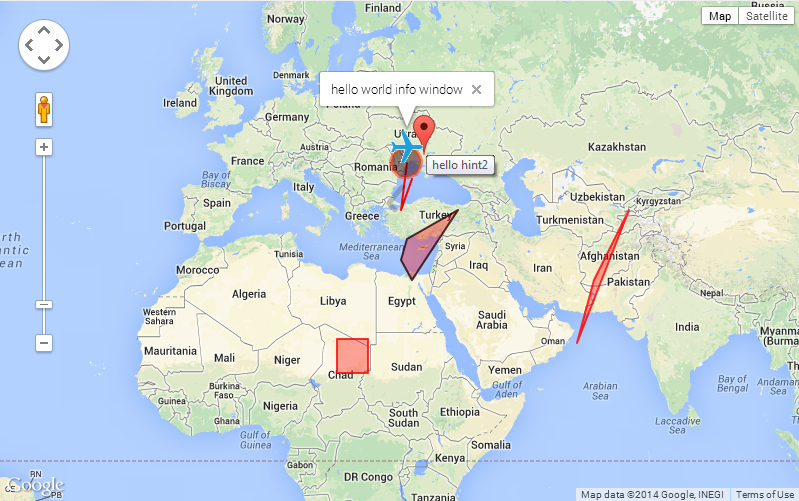
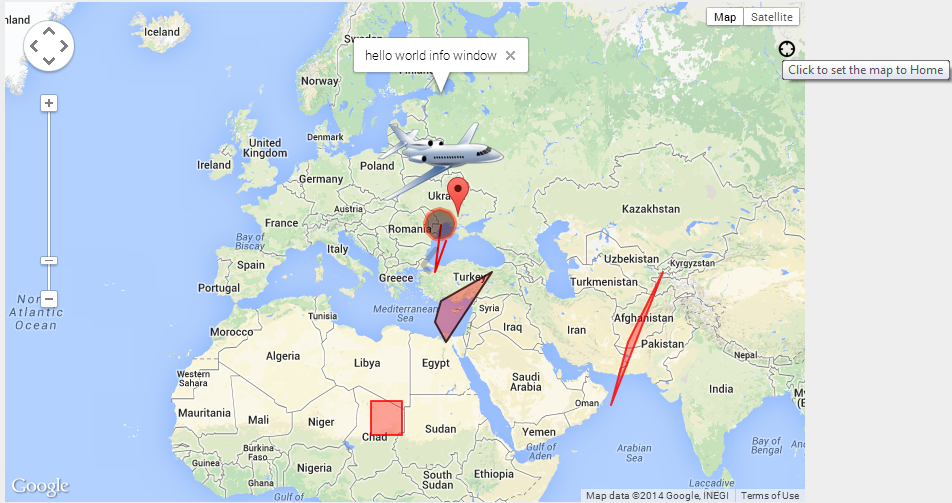
Added ability to set a map center by user geolocation data

diff --git a/flask_googlemaps/templates/googlemaps/gmapjs.html b/flask_googlemaps/templates/googlemaps/gmapjs.html
@@ -129,6 +129,30 @@
           });
           drawingManager.setMap(googleMap);
         }
+
+        if (navigator.geolocation) {
+            var container = document.createElement('div');
+            var homeControl = new BuildHomeControl(container);
+
+            container.index = 1;
+            googleMap.controls[google.maps.ControlPosition.RIGHT_TOP].push(container);
+
+            google.maps.event.addDomListener(container, 'click', function() {
+                navigator.geolocation.getCurrentPosition(function(position) {
+                    var coordinates = new google.maps.LatLng(position.coords.latitude, position.coords.longitude);
+                    googleMap.setCenter(coordinates);
+                });
+            });
+        }
+    }
+
+    function BuildHomeControl(container) {
+          container.style.padding = '2px';
+
+          var img = document.createElement('img');
+          img.title = 'Click to set the map to Home';
+          container.appendChild(img);
[1 lines of base64/hex data omitted]
     }
 
     google.maps.event.addDomListener(window, 'load', initialize_googleMap);
